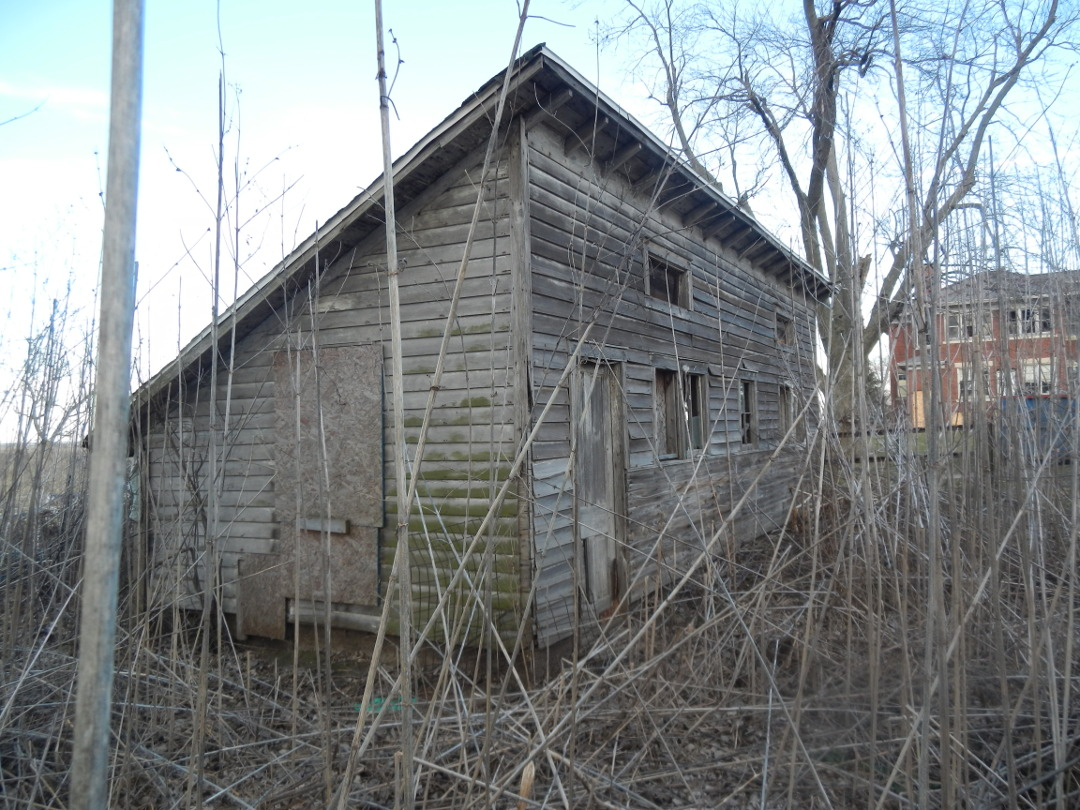
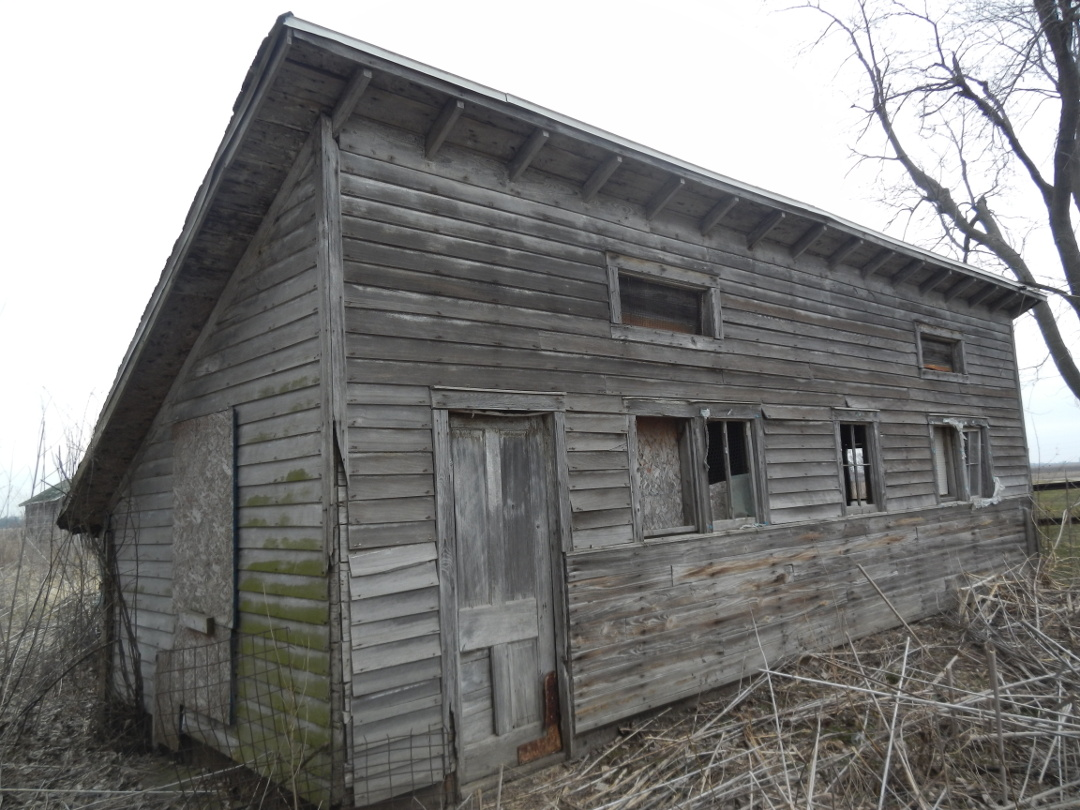
Freshen images and some verbiage

diff --git a/src/posts/log-shed/index.md b/src/posts/log-shed/index.md
@@ -9,7 +9,7 @@ The long sills have regularly spaced notches on either side, which match up perf
 
 We are investigating the possible implications of those notches, and hope they will serve as clues as to the original purpose for which this structure was built.
 
-![Log Shed](./logShed.jpg)
+![Log Shed](./maddockTag.jpg)
 <center>
-The framing for this building is made of hewn logs
+Josiah Portteus's cousin Lewis E. Maddock tagged this wall ca. 1875
 </center>
